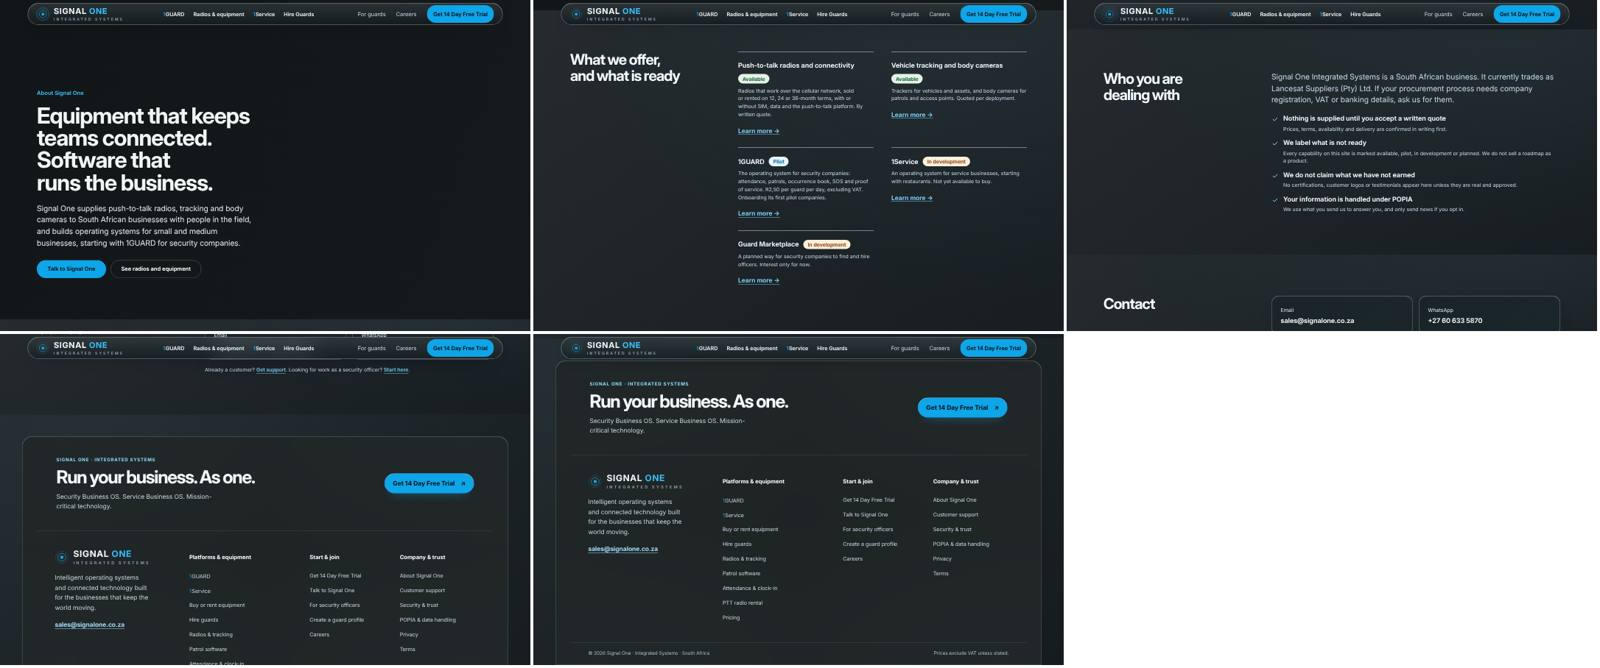
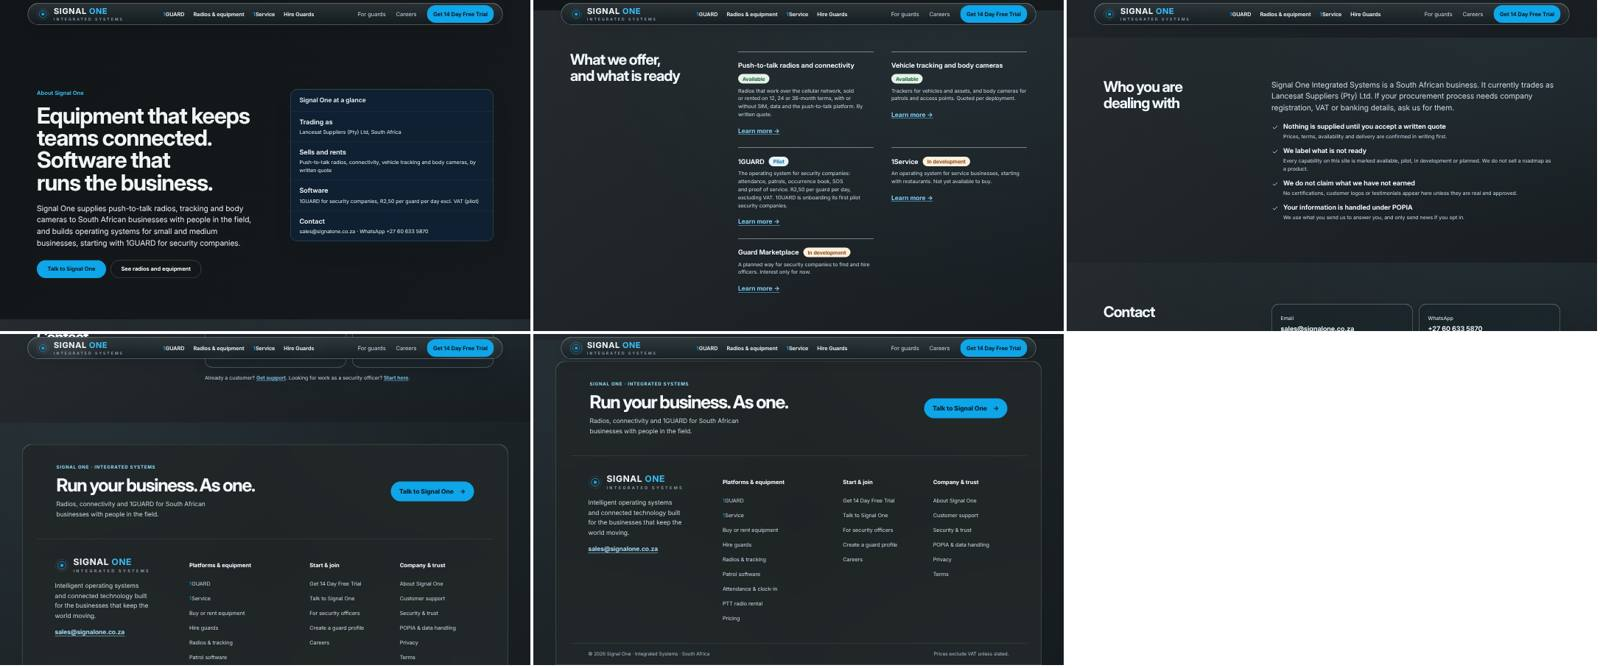
docs(launch): final suite result, hydration (KI-1) rate measurement, refreshed About/Support evidence
Claude-Session: https://claude.ai/code/session_01B62tc7uq9MnpAfVPpknsDP

diff --git a/docs/launch/DEFECT_REGISTER.md b/docs/launch/DEFECT_REGISTER.md
@@ -58,6 +58,10 @@ Status: `OPEN` · `FIXED (branch)` — implemented and verified on a local produ
 | VA-01–03, 05, 07–10, 12–27 | OPEN — one reviewed change | Root cause is shared: three CSS override layers (293 hex, ~590 rgba, 579 `!important`). Fixing page by page would add a fourth layer. Next step: consolidate tokens per `BRAND_AUDIT.md` §7 in a dedicated branch with before/after captures of every route, hero excluded. Image items needing new assets or founder rulings are in `IMAGE_INVENTORY.md` §5. |
 | DR-022 | OPEN (root cause found) | Homepage section image columns leave ~230 px empty above product photos at 1440 (`home-conversion.css:70`, `:1192`); part of the token/layout consolidation. |
 
+### Final suite on the committed state (`d54dee7`)
+
+**412 passed, 2 failed, 84 skipped** (skipped = opt-in evidence suites). Both failures are React hydration error #418 (KI-1): `/join/sales` at 375 and `/contact` at 768, during a run in which another copy of the site was being built and served on the same machine. Measured in isolation on the same build: **0 errors in 160 loads** (40 each of `/contact`@768, `/join/sales`@375, `/radios-equipment`@768, `/`@390). Customer impact: React re-renders on the client and the page works; no visible break observed. Status: **OPEN (pre-existing, load-dependent), S3**. Next step per `docs/KNOWN_ISSUES.md`: test the latest Next.js 16 patch release on a separate branch. Not counted as a pass.
+
 ## Not defects (checked and rejected)
 
 - `/join/sales` absent from the sitemap: deliberate (noindex careers page, `app/sitemap.ts`).
